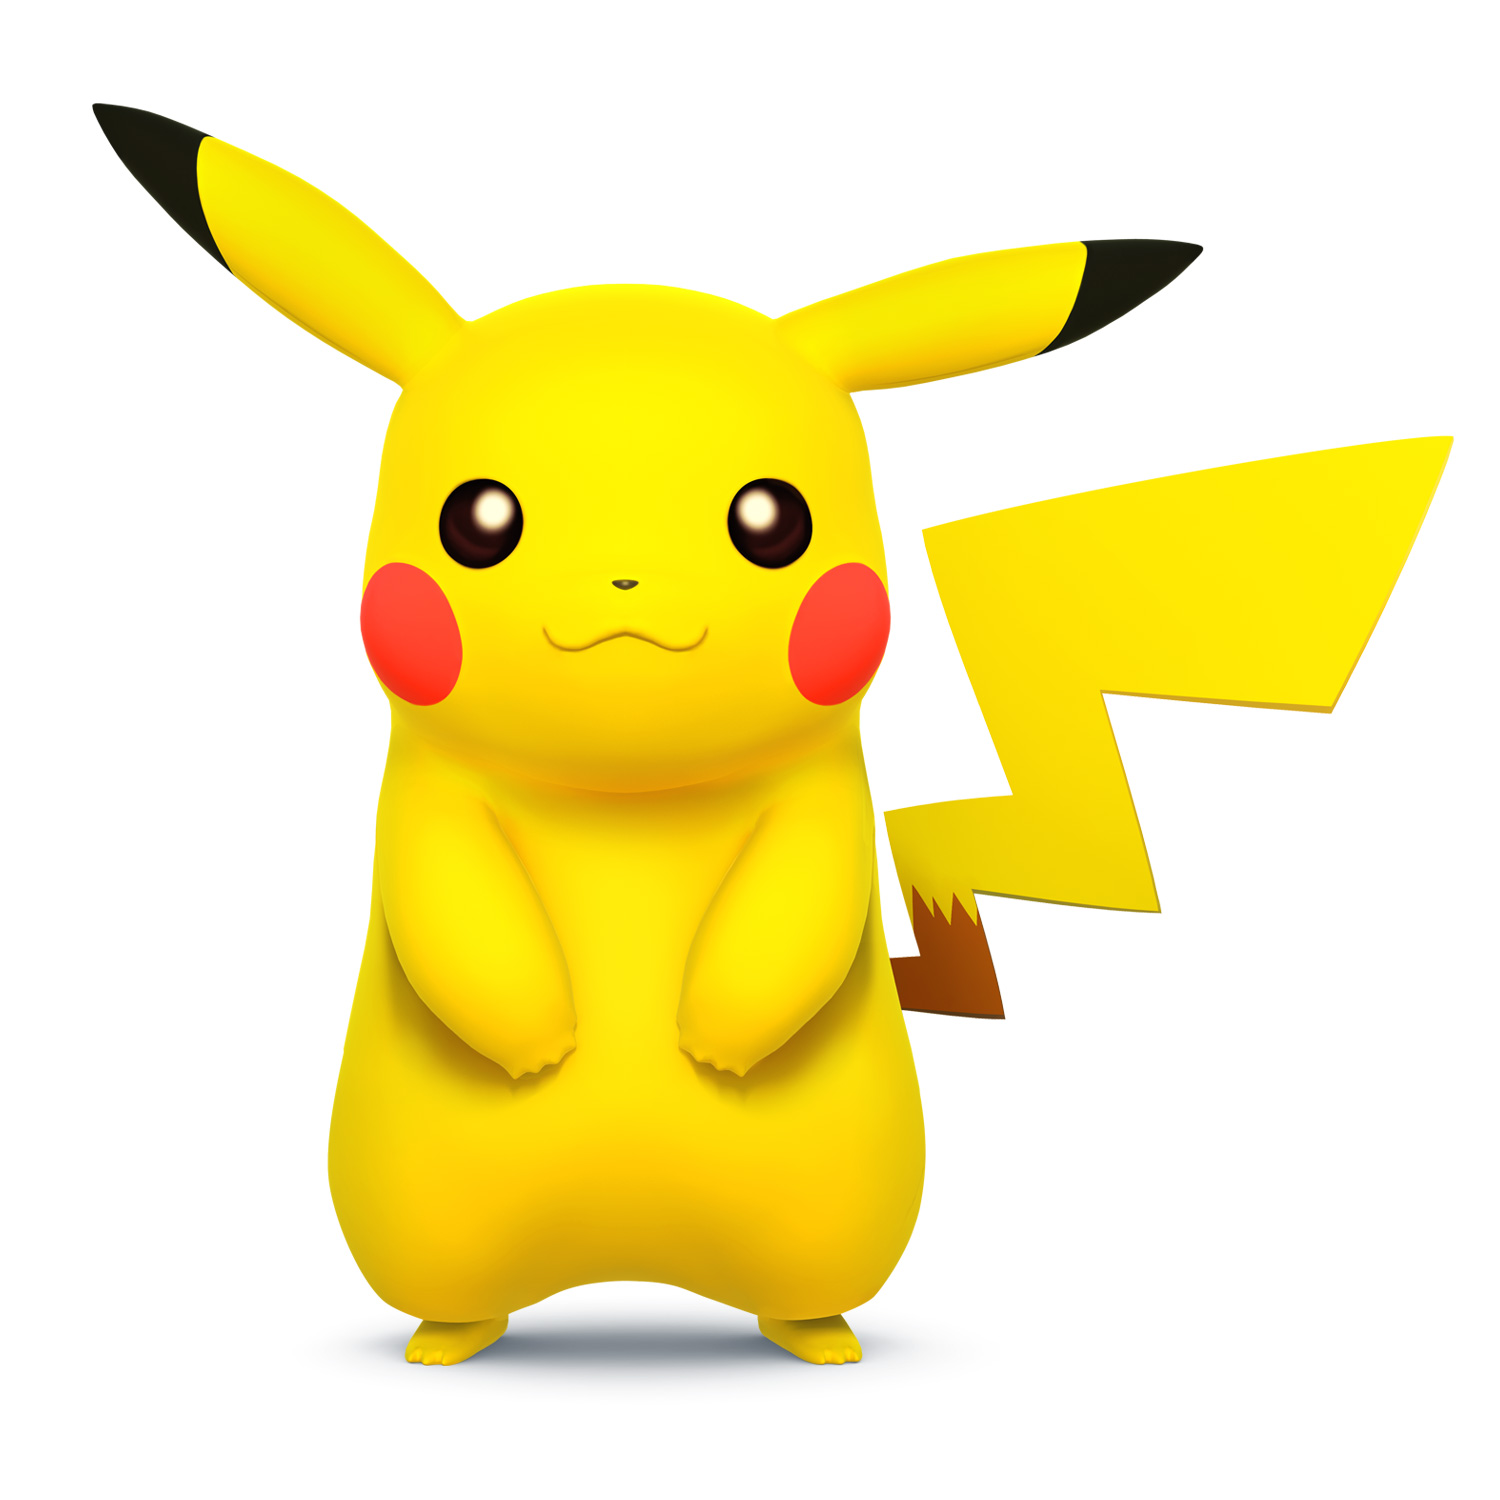
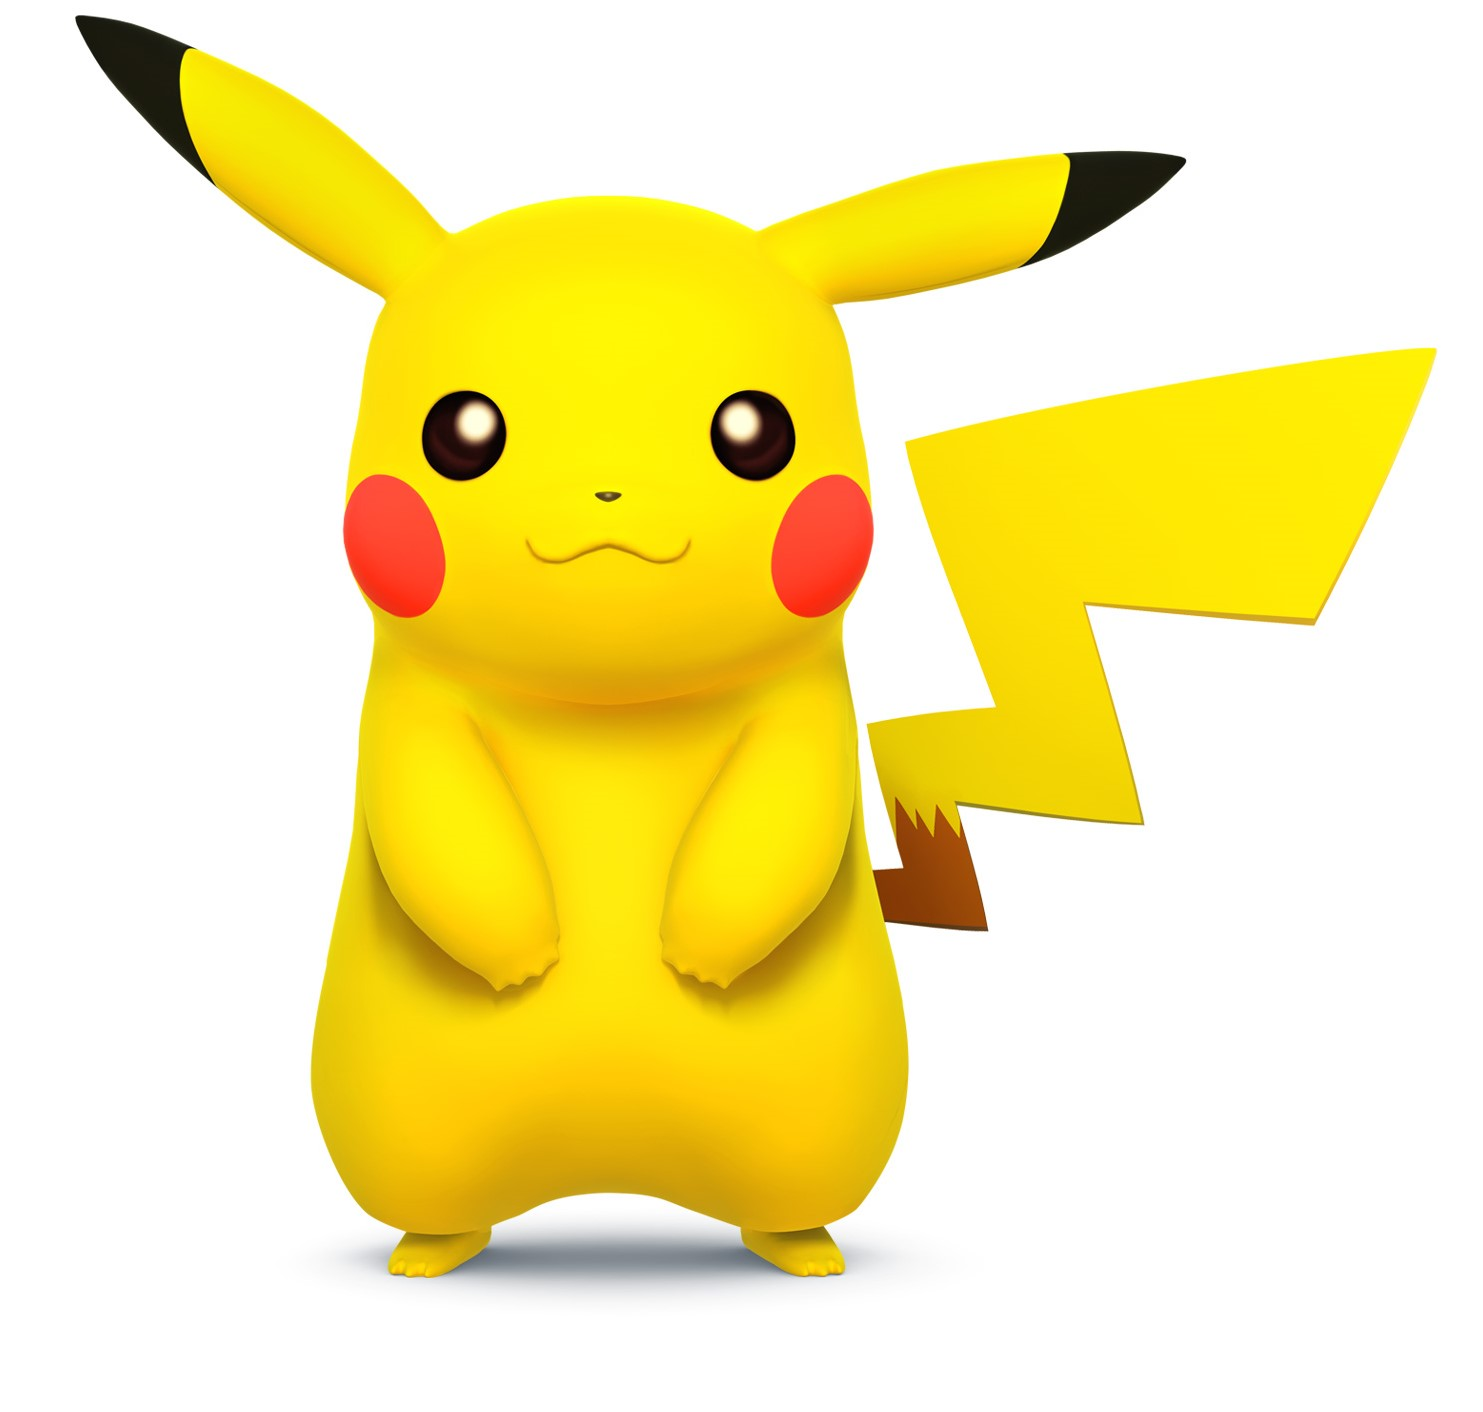
Updated layout on the start-page.component.

diff --git a/src/app/components/start-page/start-page.component.css b/src/app/components/start-page/start-page.component.css
@@ -9,9 +9,9 @@ main{
 
 h1{
     font-family: "Circular", Helvetica, Arial;
-    margin-top: 2rem;
+    margin-top: 0rem;
     text-align: center;
-    font-size: 1.6rem;
+    font-size: 2.2rem;
     font-weight: 900;
     letter-spacing: 0.0rem;
     margin-bottom: 0rem;
@@ -19,39 +19,59 @@ h1{
 }
 h2{
     font-family: "Circular", Helvetica, Arial;
-    margin-top: 0.1rem;
+    margin-top: 0.0rem;
     text-align: center;
-    font-size: 0.9rem;
+    font-size: 0.7rem;
     font-weight: 800;
-    letter-spacing: 0.22rem;
+    letter-spacing: 0.2rem;
     color:#a02f20;
+    text-align: center;
 }
+
+h3{
+    font-family: "Circular", Helvetica, Arial;
+    margin-top: 2.2rem;
+    text-align: center;
+    font-size: 0.8rem;
+    font-weight: 800;
+    letter-spacing: 0.1rem;
+    color:#333;
+    text-align: center;
+}
+#logoH1{
+    width:16rem;
+    height: auto;
+}
+
+
 #academy{
     color: #2b74ba;
-    font-size: 1.6rem;
+    font-size: 2.2rem;
 }
+
 #pickachu{
-    width:20rem;
+    width:30rem;
     height:auto;
-    margin-top: -10rem;
-    margin-left: 55rem;
+    top:0;
+    margin-top: 6.8rem;
+    margin-left: 4rem;
+    top:0;
     position: absolute;
     z-index: 99;
 }
 #outer-div{
     height: 6.6rem;
-    width: 31%;
-    margin-top: 0.2rem;
-    margin-left: auto;
-    margin-right: auto;
+    width:30%;
+    margin-top: 2rem;
+    margin-left: 38rem;
+     
 }
 #registration-section {
-    width:94%;
-    margin-top: 0rem;
-    margin-left: auto;
-    margin-right: auto;
+    width:88%;
     flex-wrap: wrap;
-    padding: 0.6rem;
+    margin-top: 0.2rem;
+    margin-top: auto;
+    margin-left: auto;
 
 }
 .a-input{

diff --git a/src/app/components/start-page/start-page.component.html b/src/app/components/start-page/start-page.component.html
@@ -1,12 +1,12 @@
 <main> 
-    <h1> Pokémon Trainer <span id="academy">Academy</span></h1>
-    <h2>Are you ready to Catch 'em All?</h2>
-
     <section id="outer-div">
-    <section id="registration-section">
+         <section id="registration-section">
+            <h1><img id="logoH1" alt="Pokémon logo" src="../../assets/pokemonLogo.png"> Trainer <span id="academy">Academy</span></h1>
+            <h2>Are you ready to Catch 'em All?</h2>
+             <h3>Join the community</h3>
         <input class="a-input" type="text" Placeholder="Name" required />
-        <button type="button" id="btn-submit">Sign up</button>
-    </section>
-</section>
-    <img id="pickachu" alt="pickachu" src="../../assets/pickachu.jpg">
+            <button type="button" id="btn-submit">Sign up</button>
+        </section>
+    </section> 
+    <img id="pickachu" alt="#Pickachu" src="../../assets/pickachu.jpg">
 </main>

diff --git a/src/app/app.component.css b/src/app/app.component.css
@@ -5,5 +5,5 @@
 }
 
 #mastergrid{
- 
+   
 }
